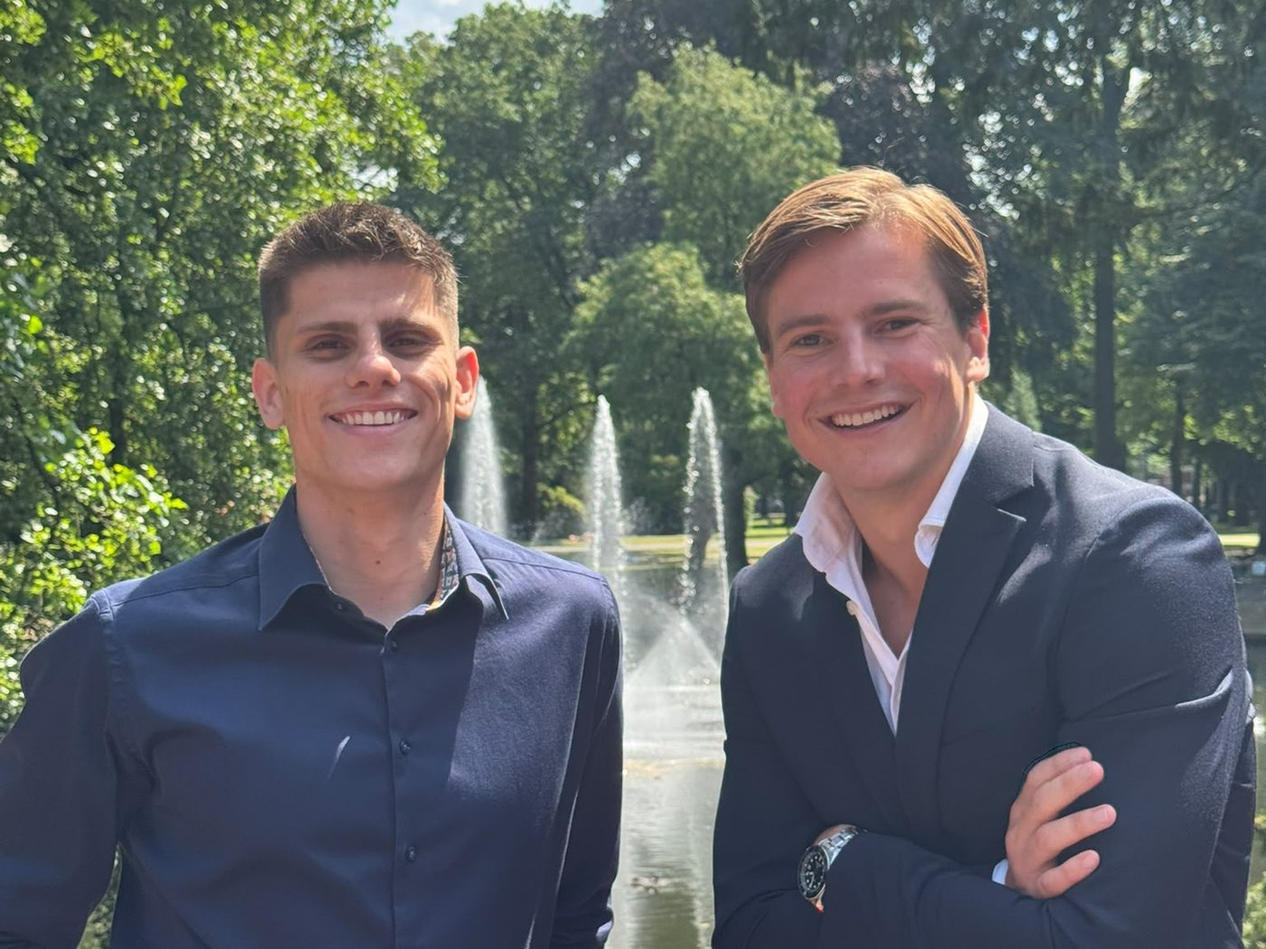
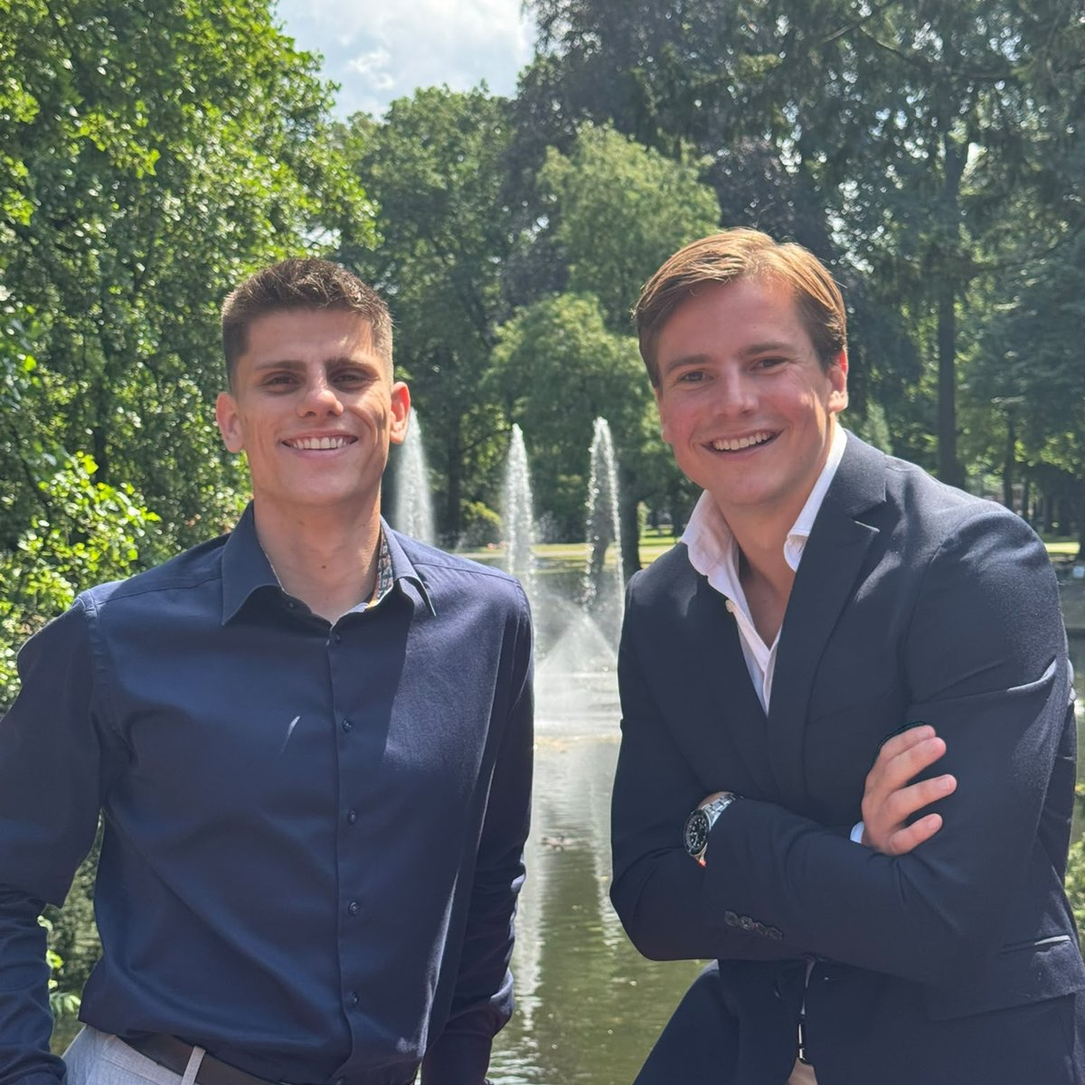
CTA zonder foto, Strategie-foto ruimer en kleiner, voorbeeldkaart met eigen achtergrond

diff --git a/styles.css b/styles.css
@@ -1,3 +1,3 @@
 @font-face{font-family:Inter;font-style:normal;font-weight:100 900;font-display:swap;src:url(fonts/inter-latin-ext-wght-normal.woff2) format("woff2-variations");unicode-range:u+0100-02ba,u+02bd-02c5,u+02c7-02cc,u+02ce-02d7,u+02dd-02ff,u+0304,u+0308,u+0329,u+1d00-1dbf,u+1e00-1e9f,u+1ef2-1eff,u+2020,u+20a0-20ab,u+20ad-20c0,u+2113,u+2c60-2c7f,u+a720-a7ff}@font-face{font-family:Inter;font-style:normal;font-weight:100 900;font-display:swap;src:url(fonts/inter-latin-wght-normal.woff2) format("woff2-variations");unicode-range:u+00??,u+0131,u+0152-0153,u+02bb-02bc,u+02c6,u+02da,u+02dc,u+0304,u+0308,u+0329,u+2000-206f,u+20ac,u+2122,u+2191,u+2193,u+2212,u+2215,u+feff,u+fffd}*,:after,:before{--tw-border-spacing-x:0;--tw-border-spacing-y:0;--tw-translate-x:0;--tw-translate-y:0;--tw-rotate:0;--tw-skew-x:0;--tw-skew-y:0;--tw-scale-x:1;--tw-scale-y:1;--tw-pan-x: ;--tw-pan-y: ;--tw-pinch-zoom: ;--tw-scroll-snap-strictness:proximity;--tw-gradient-from-position: ;--tw-gradient-via-position: ;--tw-gradient-to-position: ;--tw-ordinal: ;--tw-slashed-zero: ;--tw-numeric-figure: ;--tw-numeric-spacing: ;--tw-numeric-fraction: ;--tw-ring-inset: ;--tw-ring-offset-width:0px;--tw-ring-offset-color:#fff;--tw-ring-color:rgba(59,130,246,.5);--tw-ring-offset-shadow:0 0 #0000;--tw-ring-shadow:0 0 #0000;--tw-shadow:0 0 #0000;--tw-shadow-colored:0 0 #0000;--tw-blur: ;--tw-brightness: ;--tw-contrast: ;--tw-grayscale: ;--tw-hue-rotate: ;--tw-invert: ;--tw-saturate: ;--tw-sepia: ;--tw-drop-shadow: ;--tw-backdrop-blur: ;--tw-backdrop-brightness: ;--tw-backdrop-contrast: ;--tw-backdrop-grayscale: ;--tw-backdrop-hue-rotate: ;--tw-backdrop-invert: ;--tw-backdrop-opacity: ;--tw-backdrop-saturate: ;--tw-backdrop-sepia: ;--tw-contain-size: ;--tw-contain-layout: ;--tw-contain-paint: ;--tw-contain-style: }::backdrop{--tw-border-spacing-x:0;--tw-border-spacing-y:0;--tw-translate-x:0;--tw-translate-y:0;--tw-rotate:0;--tw-skew-x:0;--tw-skew-y:0;--tw-scale-x:1;--tw-scale-y:1;--tw-pan-x: ;--tw-pan-y: ;--tw-pinch-zoom: ;--tw-scroll-snap-strictness:proximity;--tw-gradient-from-position: ;--tw-gradient-via-position: ;--tw-gradient-to-position: ;--tw-ordinal: ;--tw-slashed-zero: ;--tw-numeric-figure: ;--tw-numeric-spacing: ;--tw-numeric-fraction: ;--tw-ring-inset: ;--tw-ring-offset-width:0px;--tw-ring-offset-color:#fff;--tw-ring-color:rgba(59,130,246,.5);--tw-ring-offset-shadow:0 0 #0000;--tw-ring-shadow:0 0 #0000;--tw-shadow:0 0 #0000;--tw-shadow-colored:0 0 #0000;--tw-blur: ;--tw-brightness: ;--tw-contrast: ;--tw-grayscale: ;--tw-hue-rotate: ;--tw-invert: ;--tw-saturate: ;--tw-sepia: ;--tw-drop-shadow: ;--tw-backdrop-blur: ;--tw-backdrop-brightness: ;--tw-backdrop-contrast: ;--tw-backdrop-grayscale: ;--tw-backdrop-hue-rotate: ;--tw-backdrop-invert: ;--tw-backdrop-opacity: ;--tw-backdrop-saturate: ;--tw-backdrop-sepia: ;--tw-contain-size: ;--tw-contain-layout: ;--tw-contain-paint: ;--tw-contain-style: }
 
-/*! tailwindcss v3.4.17 | MIT License | https://tailwindcss.com*/*,:after,:before{box-sizing:border-box;border:0 solid #e5e7eb}:after,:before{--tw-content:""}:host,html{line-height:1.5;-webkit-text-size-adjust:100%;-moz-tab-size:4;-o-tab-size:4;tab-size:4;font-family:Inter,sans-serif;font-feature-settings:normal;font-variation-settings:normal;-webkit-tap-highlight-color:transparent}body{margin:0;line-height:inherit}hr{height:0;color:inherit;border-top-width:1px}abbr:where([title]){-webkit-text-decoration:underline dotted;text-decoration:underline dotted}h1,h2,h3,h4,h5,h6{font-size:inherit;font-weight:inherit}a{color:inherit;text-decoration:inherit}b,strong{font-weight:bolder}code,kbd,pre,samp{font-family:ui-monospace,SFMono-Regular,Menlo,Monaco,Consolas,Liberation Mono,Courier New,monospace;font-feature-settings:normal;font-variation-settings:normal;font-size:1em}small{font-size:80%}sub,sup{font-size:75%;line-height:0;position:relative;vertical-align:baseline}sub{bottom:-.25em}sup{top:-.5em}table{text-indent:0;border-color:inherit;border-collapse:collapse}button,input,optgroup,select,textarea{font-family:inherit;font-feature-settings:inherit;font-variation-settings:inherit;font-size:100%;font-weight:inherit;line-height:inherit;letter-spacing:inherit;color:inherit;margin:0;padding:0}button,select{text-transform:none}button,input:where([type=button]),input:where([type=reset]),input:where([type=submit]){-webkit-appearance:button;background-color:transparent;background-image:none}:-moz-focusring{outline:auto}:-moz-ui-invalid{box-shadow:none}progress{vertical-align:baseline}::-webkit-inner-spin-button,::-webkit-outer-spin-button{height:auto}[type=search]{-webkit-appearance:textfield;outline-offset:-2px}::-webkit-search-decoration{-webkit-appearance:none}::-webkit-file-upload-button{-webkit-appearance:button;font:inherit}summary{display:list-item}blockquote,dd,dl,figure,h1,h2,h3,h4,h5,h6,hr,p,pre{margin:0}fieldset{margin:0}fieldset,legend{padding:0}menu,ol,ul{list-style:none;margin:0;padding:0}dialog{padding:0}textarea{resize:vertical}input::-moz-placeholder,textarea::-moz-placeholder{opacity:1;color:#9ca3af}input::placeholder,textarea::placeholder{opacity:1;color:#9ca3af}[role=button],button{cursor:pointer}:disabled{cursor:default}audio,canvas,embed,iframe,img,object,svg,video{display:block;vertical-align:middle}img,video{max-width:100%;height:auto}[hidden]:where(:not([hidden=until-found])){display:none}.container{width:100%}@media (min-width:640px){.container{max-width:640px}}@media (min-width:768px){.container{max-width:768px}}@media (min-width:1024px){.container{max-width:1024px}}@media (min-width:1280px){.container{max-width:1280px}}@media (min-width:1536px){.container{max-width:1536px}}.static{position:static}.fixed{position:fixed}.absolute{position:absolute}.relative{position:relative}.sticky{position:sticky}.-bottom-5{bottom:-1.25rem}.-right-24{right:-6rem}.-top-24{top:-6rem}.-top-5{top:-1.25rem}.bottom-4{bottom:1rem}.left-4{left:1rem}.left-6{left:1.5rem}.right-2{right:.5rem}.mx-auto{margin-left:auto;margin-right:auto}.\!mb-0{margin-bottom:0!important}.\!mb-5{margin-bottom:1.25rem!important}.-mr-2{margin-right:-.5rem}.mb-1{margin-bottom:.25rem}.mb-10{margin-bottom:2.5rem}.mb-14{margin-bottom:3.5rem}.mb-16{margin-bottom:4rem}.mb-3{margin-bottom:.75rem}.mb-4{margin-bottom:1rem}.mb-5{margin-bottom:1.25rem}.mb-6{margin-bottom:1.5rem}.mb-7{margin-bottom:1.75rem}.mb-8{margin-bottom:2rem}.mb-9{margin-bottom:2.25rem}.mt-1{margin-top:.25rem}.mt-1\.5{margin-top:.375rem}.mt-10{margin-top:2.5rem}.mt-16{margin-top:4rem}.mt-8{margin-top:2rem}.block{display:block}.flex{display:flex}.inline-flex{display:inline-flex}.grid{display:grid}.hidden{display:none}.aspect-\[16\/9\]{aspect-ratio:16/9}.aspect-\[4\/3\]{aspect-ratio:4/3}.aspect-\[4\/5\]{aspect-ratio:4/5}.\!h-7{height:1.75rem!important}.h-12{height:3rem}.h-16{height:4rem}.h-5{height:1.25rem}.h-6{height:1.5rem}.h-72{height:18rem}.h-8{height:2rem}.h-9{height:2.25rem}.h-\[72px\]{height:72px}.\!w-7{width:1.75rem!important}.w-12{width:3rem}.w-5{width:1.25rem}.w-6{width:1.5rem}.w-72{width:18rem}.w-8{width:2rem}.w-9{width:2.25rem}.w-fit{width:-moz-fit-content;width:fit-content}.w-full{width:100%}.max-w-2xl{max-width:42rem}.max-w-3xl{max-width:48rem}.max-w-6xl{max-width:72rem}.max-w-lg{max-width:32rem}.max-w-xl{max-width:36rem}.flex-shrink{flex-shrink:1}.flex-shrink-0{flex-shrink:0}.transform{transform:translate(var(--tw-translate-x),var(--tw-translate-y)) rotate(var(--tw-rotate)) skewX(var(--tw-skew-x)) skewY(var(--tw-skew-y)) scaleX(var(--tw-scale-x)) scaleY(var(--tw-scale-y))}.resize{resize:both}.grid-cols-1{grid-template-columns:repeat(1,minmax(0,1fr))}.flex-col{flex-direction:column}.flex-wrap{flex-wrap:wrap}.items-start{align-items:flex-start}.items-center{align-items:center}.justify-center{justify-content:center}.justify-between{justify-content:space-between}.\!gap-3{gap:.75rem!important}.gap-1{gap:.25rem}.gap-10{gap:2.5rem}.gap-12{gap:3rem}.gap-14{gap:3.5rem}.gap-3{gap:.75rem}.gap-4{gap:1rem}.gap-5{gap:1.25rem}.gap-6{gap:1.5rem}.gap-7{gap:1.75rem}.gap-8{gap:2rem}.gap-x-5{-moz-column-gap:1.25rem;column-gap:1.25rem}.gap-x-6{-moz-column-gap:1.5rem;column-gap:1.5rem}.gap-y-0{row-gap:0}.gap-y-2{row-gap:.5rem}.space-y-4>:not([hidden])~:not([hidden]){--tw-space-y-reverse:0;margin-top:calc(1rem*(1 - var(--tw-space-y-reverse)));margin-bottom:calc(1rem*var(--tw-space-y-reverse))}.justify-self-start{justify-self:start}.overflow-hidden{overflow:hidden}.text-wrap{text-wrap:wrap}.rounded{border-radius:.25rem}.rounded-2xl{border-radius:1rem}.rounded-3xl{border-radius:1.5rem}.rounded-\[24px\]{border-radius:24px}.rounded-\[28px\]{border-radius:28px}.rounded-\[32px\]{border-radius:32px}.rounded-full{border-radius:9999px}.rounded-xl{border-radius:.75rem}.border{border-width:1px}.border-\[28px\]{border-width:28px}.border-y{border-top-width:1px}.border-b,.border-y{border-bottom-width:1px}.border-t{border-top-width:1px}.border-black\/\[0\.06\]{border-color:rgba(0,0,0,.06)}.border-white\/10{border-color:hsla(0,0%,100%,.1)}.border-white\/20{border-color:hsla(0,0%,100%,.2)}.border-white\/\[0\.04\]{border-color:hsla(0,0%,100%,.04)}.border-white\/\[0\.08\]{border-color:hsla(0,0%,100%,.08)}.bg-\[\#0f2a4a\]{--tw-bg-opacity:1;background-color:rgb(15 42 74/var(--tw-bg-opacity,1))}.bg-\[\#1e5bff\]{--tw-bg-opacity:1;background-color:rgb(30 91 255/var(--tw-bg-opacity,1))}.bg-\[\#EBF3FF\]{--tw-bg-opacity:1;background-color:rgb(235 243 255/var(--tw-bg-opacity,1))}.bg-\[\#F1F3F7\]{--tw-bg-opacity:1;background-color:rgb(241 243 247/var(--tw-bg-opacity,1))}.bg-white{--tw-bg-opacity:1;background-color:rgb(255 255 255/var(--tw-bg-opacity,1))}.bg-white\/\[0\.05\]{background-color:hsla(0,0%,100%,.05)}.object-contain{-o-object-fit:contain;object-fit:contain}.object-cover{-o-object-fit:cover;object-fit:cover}.p-2{padding:.5rem}.p-4{padding:1rem}.p-6{padding:1.5rem}.p-7{padding:1.75rem}.\!py-1\.5{padding-top:.375rem!important;padding-bottom:.375rem!important}.px-3{padding-left:.75rem;padding-right:.75rem}.px-4{padding-left:1rem;padding-right:1rem}.px-6{padding-left:1.5rem;padding-right:1.5rem}.px-7{padding-left:1.75rem;padding-right:1.75rem}.py-1\.5{padding-top:.375rem;padding-bottom:.375rem}.py-12{padding-top:3rem;padding-bottom:3rem}.py-16{padding-top:4rem;padding-bottom:4rem}.py-2{padding-top:.5rem;padding-bottom:.5rem}.py-24{padding-top:6rem;padding-bottom:6rem}.py-3{padding-top:.75rem;padding-bottom:.75rem}.py-5{padding-top:1.25rem;padding-bottom:1.25rem}.py-8{padding-top:2rem;padding-bottom:2rem}.py-9{padding-top:2.25rem;padding-bottom:2.25rem}.\!pl-5{padding-left:1.25rem!important}.\!pr-1\.5{padding-right:.375rem!important}.pb-10{padding-bottom:2.5rem}.pb-16{padding-bottom:4rem}.pl-6{padding-left:1.5rem}.pr-2{padding-right:.5rem}.pt-12{padding-top:3rem}.pt-20{padding-top:5rem}.pt-4{padding-top:1rem}.pt-8{padding-top:2rem}.text-center{text-align:center}.\!text-\[15px\]{font-size:15px!important}.\!text-\[18px\]{font-size:18px!important}.\!text-sm{font-size:.875rem!important;line-height:1.25rem!important}.text-2xl{font-size:1.5rem;line-height:2rem}.text-3xl{font-size:1.875rem;line-height:2.25rem}.text-\[11px\]{font-size:11px}.text-\[12px\]{font-size:12px}.text-\[13\.5px\]{font-size:13.5px}.text-\[13px\]{font-size:13px}.text-\[14\.5px\]{font-size:14.5px}.text-\[14px\]{font-size:14px}.text-\[15\.5px\]{font-size:15.5px}.text-\[15px\]{font-size:15px}.text-\[16px\]{font-size:16px}.text-\[17px\]{font-size:17px}.text-\[20px\]{font-size:20px}.text-\[23px\]{font-size:23px}.text-\[24px\]{font-size:24px}.text-base{font-size:1rem;line-height:1.5rem}.text-lg{font-size:1.125rem;line-height:1.75rem}.text-sm{font-size:.875rem;line-height:1.25rem}.text-xl{font-size:1.25rem;line-height:1.75rem}.text-xs{font-size:.75rem;line-height:1rem}.font-bold{font-weight:700}.font-medium{font-weight:500}.font-semibold{font-weight:600}.uppercase{text-transform:uppercase}.leading-\[1\.7\]{line-height:1.7}.leading-relaxed{line-height:1.625}.leading-snug{line-height:1.375}.leading-tight{line-height:1.25}.tracking-\[0\.14em\]{letter-spacing:.14em}.tracking-\[0\.18em\]{letter-spacing:.18em}.tracking-tight{letter-spacing:-.025em}.text-\[\#0f2a4a\]{--tw-text-opacity:1;color:rgb(15 42 74/var(--tw-text-opacity,1))}.text-\[\#0f2a4a\]\/70{color:rgba(15,42,74,.7)}.text-\[\#1e5bff\]{--tw-text-opacity:1;color:rgb(30 91 255/var(--tw-text-opacity,1))}.text-\[\#4c5b84\]{--tw-text-opacity:1;color:rgb(76 91 132/var(--tw-text-opacity,1))}.text-\[\#5d6c9c\]{--tw-text-opacity:1;color:rgb(93 108 156/var(--tw-text-opacity,1))}.text-\[\#6b7aad\]{--tw-text-opacity:1;color:rgb(107 122 173/var(--tw-text-opacity,1))}.text-white{--tw-text-opacity:1;color:rgb(255 255 255/var(--tw-text-opacity,1))}.text-white\/50{color:hsla(0,0%,100%,.5)}.text-white\/55{color:hsla(0,0%,100%,.55)}.text-white\/60{color:hsla(0,0%,100%,.6)}.text-white\/70{color:hsla(0,0%,100%,.7)}.underline{text-decoration-line:underline}.antialiased{-webkit-font-smoothing:antialiased;-moz-osx-font-smoothing:grayscale}.shadow-\[0_18px_36px_-18px_rgba\(15\2c 42\2c 74\2c \.5\)\]{--tw-shadow:0 18px 36px -18px rgba(15,42,74,.5);--tw-shadow-colored:0 18px 36px -18px var(--tw-shadow-color);box-shadow:var(--tw-ring-offset-shadow,0 0 #0000),var(--tw-ring-shadow,0 0 #0000),var(--tw-shadow)}.shadow-\[0_30px_60px_-30px_rgba\(0\2c 0\2c 0\2c \.6\)\]{--tw-shadow:0 30px 60px -30px rgba(0,0,0,.6);--tw-shadow-colored:0 30px 60px -30px var(--tw-shadow-color);box-shadow:var(--tw-ring-offset-shadow,0 0 #0000),var(--tw-ring-shadow,0 0 #0000),var(--tw-shadow)}.outline{outline-style:solid}.blur{--tw-blur:blur(8px)}.blur,.drop-shadow{filter:var(--tw-blur) var(--tw-brightness) var(--tw-contrast) var(--tw-grayscale) var(--tw-hue-rotate) var(--tw-invert) var(--tw-saturate) var(--tw-sepia) var(--tw-drop-shadow)}.drop-shadow{--tw-drop-shadow:drop-shadow(0 1px 2px rgba(0,0,0,.1)) drop-shadow(0 1px 1px rgba(0,0,0,.06))}.filter{filter:var(--tw-blur) var(--tw-brightness) var(--tw-contrast) var(--tw-grayscale) var(--tw-hue-rotate) var(--tw-invert) var(--tw-saturate) var(--tw-sepia) var(--tw-drop-shadow)}.backdrop-filter{-webkit-backdrop-filter:var(--tw-backdrop-blur) var(--tw-backdrop-brightness) var(--tw-backdrop-contrast) var(--tw-backdrop-grayscale) var(--tw-backdrop-hue-rotate) var(--tw-backdrop-invert) var(--tw-backdrop-opacity) var(--tw-backdrop-saturate) var(--tw-backdrop-sepia);backdrop-filter:var(--tw-backdrop-blur) var(--tw-backdrop-brightness) var(--tw-backdrop-contrast) var(--tw-backdrop-grayscale) var(--tw-backdrop-hue-rotate) var(--tw-backdrop-invert) var(--tw-backdrop-opacity) var(--tw-backdrop-saturate) var(--tw-backdrop-sepia)}.transition{transition-property:color,background-color,border-color,text-decoration-color,fill,stroke,opacity,box-shadow,transform,filter,-webkit-backdrop-filter;transition-property:color,background-color,border-color,text-decoration-color,fill,stroke,opacity,box-shadow,transform,filter,backdrop-filter;transition-property:color,background-color,border-color,text-decoration-color,fill,stroke,opacity,box-shadow,transform,filter,backdrop-filter,-webkit-backdrop-filter;transition-timing-function:cubic-bezier(.4,0,.2,1);transition-duration:.15s}.transition-all{transition-property:all;transition-timing-function:cubic-bezier(.4,0,.2,1);transition-duration:.15s}.transition-colors{transition-property:color,background-color,border-color,text-decoration-color,fill,stroke;transition-timing-function:cubic-bezier(.4,0,.2,1);transition-duration:.15s}.duration-200{transition-duration:.2s}.ease-in-out{transition-timing-function:cubic-bezier(.4,0,.2,1)}.ease-out{transition-timing-function:cubic-bezier(0,0,.2,1)}.\[text-wrap\:balance\]{text-wrap:balance}.hover\:bg-\[\#1a4ee0\]:hover{--tw-bg-opacity:1;background-color:rgb(26 78 224/var(--tw-bg-opacity,1))}.hover\:bg-white:hover{--tw-bg-opacity:1;background-color:rgb(255 255 255/var(--tw-bg-opacity,1))}.hover\:bg-white\/90:hover{background-color:hsla(0,0%,100%,.9)}.hover\:text-\[\#0f2a4a\]:hover{--tw-text-opacity:1;color:rgb(15 42 74/var(--tw-text-opacity,1))}.hover\:text-white:hover{--tw-text-opacity:1;color:rgb(255 255 255/var(--tw-text-opacity,1))}.hover\:text-white\/55:hover{color:hsla(0,0%,100%,.55)}.hover\:underline:hover{text-decoration-line:underline}@media (min-width:640px){.sm\:bottom-6{bottom:1.5rem}.sm\:left-6{left:1.5rem}.sm\:inline-flex{display:inline-flex}.sm\:aspect-\[5\/4\]{aspect-ratio:5/4}.sm\:grid-cols-2{grid-template-columns:repeat(2,minmax(0,1fr))}.sm\:grid-cols-3{grid-template-columns:repeat(3,minmax(0,1fr))}.sm\:flex-row{flex-direction:row}.sm\:items-center{align-items:center}.sm\:justify-between{justify-content:space-between}.sm\:gap-10{gap:2.5rem}.sm\:gap-6{gap:1.5rem}.sm\:justify-self-end{justify-self:end}.sm\:justify-self-center{justify-self:center}.sm\:p-10{padding:2.5rem}.sm\:p-7{padding:1.75rem}.sm\:p-8{padding:2rem}.sm\:p-9{padding:2.25rem}.sm\:px-12{padding-left:3rem;padding-right:3rem}.sm\:px-6{padding-left:1.5rem;padding-right:1.5rem}.sm\:py-14{padding-top:3.5rem;padding-bottom:3.5rem}.sm\:text-4xl{font-size:2.25rem;line-height:2.5rem}.sm\:text-\[28px\]{font-size:28px}}@media (min-width:768px){.md\:grid-cols-2{grid-template-columns:repeat(2,minmax(0,1fr))}.md\:flex-row{flex-direction:row}.md\:items-end{align-items:flex-end}.md\:justify-between{justify-content:space-between}}@media (min-width:1024px){.lg\:-right-4{right:-1rem}.lg\:left-2{left:.5rem}.lg\:flex{display:flex}.lg\:inline-flex{display:inline-flex}.lg\:hidden{display:none}.lg\:aspect-\[4\/5\]{aspect-ratio:4/5}.lg\:grid-cols-3{grid-template-columns:repeat(3,minmax(0,1fr))}.lg\:grid-cols-4{grid-template-columns:repeat(4,minmax(0,1fr))}.lg\:grid-cols-\[1\.05fr_1fr\]{grid-template-columns:1.05fr 1fr}.lg\:grid-cols-\[1\.15fr_1fr\]{grid-template-columns:1.15fr 1fr}.lg\:grid-cols-\[1\.1fr_1fr\]{grid-template-columns:1.1fr 1fr}.lg\:grid-cols-\[1fr_1\.05fr\]{grid-template-columns:1fr 1.05fr}.lg\:grid-cols-\[1fr_1\.1fr\]{grid-template-columns:1fr 1.1fr}.lg\:grid-cols-\[330px_1fr\]{grid-template-columns:330px 1fr}.lg\:flex-row{flex-direction:row}.lg\:items-start{align-items:flex-start}.lg\:justify-between{justify-content:space-between}.lg\:gap-12{gap:3rem}.lg\:gap-14{gap:3.5rem}.lg\:gap-16{gap:4rem}.lg\:gap-8{gap:2rem}.lg\:py-20{padding-top:5rem;padding-bottom:5rem}.lg\:py-28{padding-top:7rem;padding-bottom:7rem}.lg\:pb-24{padding-bottom:6rem}.lg\:pl-6{padding-left:1.5rem}.lg\:pt-20{padding-top:5rem}}
+/*! tailwindcss v3.4.17 | MIT License | https://tailwindcss.com*/*,:after,:before{box-sizing:border-box;border:0 solid #e5e7eb}:after,:before{--tw-content:""}:host,html{line-height:1.5;-webkit-text-size-adjust:100%;-moz-tab-size:4;-o-tab-size:4;tab-size:4;font-family:Inter,sans-serif;font-feature-settings:normal;font-variation-settings:normal;-webkit-tap-highlight-color:transparent}body{margin:0;line-height:inherit}hr{height:0;color:inherit;border-top-width:1px}abbr:where([title]){-webkit-text-decoration:underline dotted;text-decoration:underline dotted}h1,h2,h3,h4,h5,h6{font-size:inherit;font-weight:inherit}a{color:inherit;text-decoration:inherit}b,strong{font-weight:bolder}code,kbd,pre,samp{font-family:ui-monospace,SFMono-Regular,Menlo,Monaco,Consolas,Liberation Mono,Courier New,monospace;font-feature-settings:normal;font-variation-settings:normal;font-size:1em}small{font-size:80%}sub,sup{font-size:75%;line-height:0;position:relative;vertical-align:baseline}sub{bottom:-.25em}sup{top:-.5em}table{text-indent:0;border-color:inherit;border-collapse:collapse}button,input,optgroup,select,textarea{font-family:inherit;font-feature-settings:inherit;font-variation-settings:inherit;font-size:100%;font-weight:inherit;line-height:inherit;letter-spacing:inherit;color:inherit;margin:0;padding:0}button,select{text-transform:none}button,input:where([type=button]),input:where([type=reset]),input:where([type=submit]){-webkit-appearance:button;background-color:transparent;background-image:none}:-moz-focusring{outline:auto}:-moz-ui-invalid{box-shadow:none}progress{vertical-align:baseline}::-webkit-inner-spin-button,::-webkit-outer-spin-button{height:auto}[type=search]{-webkit-appearance:textfield;outline-offset:-2px}::-webkit-search-decoration{-webkit-appearance:none}::-webkit-file-upload-button{-webkit-appearance:button;font:inherit}summary{display:list-item}blockquote,dd,dl,figure,h1,h2,h3,h4,h5,h6,hr,p,pre{margin:0}fieldset{margin:0}fieldset,legend{padding:0}menu,ol,ul{list-style:none;margin:0;padding:0}dialog{padding:0}textarea{resize:vertical}input::-moz-placeholder,textarea::-moz-placeholder{opacity:1;color:#9ca3af}input::placeholder,textarea::placeholder{opacity:1;color:#9ca3af}[role=button],button{cursor:pointer}:disabled{cursor:default}audio,canvas,embed,iframe,img,object,svg,video{display:block;vertical-align:middle}img,video{max-width:100%;height:auto}[hidden]:where(:not([hidden=until-found])){display:none}.container{width:100%}@media (min-width:640px){.container{max-width:640px}}@media (min-width:768px){.container{max-width:768px}}@media (min-width:1024px){.container{max-width:1024px}}@media (min-width:1280px){.container{max-width:1280px}}@media (min-width:1536px){.container{max-width:1536px}}.static{position:static}.fixed{position:fixed}.absolute{position:absolute}.relative{position:relative}.sticky{position:sticky}.-bottom-5{bottom:-1.25rem}.-right-24{right:-6rem}.-top-24{top:-6rem}.-top-5{top:-1.25rem}.bottom-4{bottom:1rem}.left-4{left:1rem}.left-6{left:1.5rem}.right-2{right:.5rem}.mx-auto{margin-left:auto;margin-right:auto}.\!mb-0{margin-bottom:0!important}.\!mb-5{margin-bottom:1.25rem!important}.-mr-2{margin-right:-.5rem}.mb-1{margin-bottom:.25rem}.mb-10{margin-bottom:2.5rem}.mb-14{margin-bottom:3.5rem}.mb-16{margin-bottom:4rem}.mb-3{margin-bottom:.75rem}.mb-4{margin-bottom:1rem}.mb-5{margin-bottom:1.25rem}.mb-6{margin-bottom:1.5rem}.mb-7{margin-bottom:1.75rem}.mb-8{margin-bottom:2rem}.mb-9{margin-bottom:2.25rem}.mt-1{margin-top:.25rem}.mt-1\.5{margin-top:.375rem}.mt-10{margin-top:2.5rem}.mt-16{margin-top:4rem}.mt-8{margin-top:2rem}.block{display:block}.flex{display:flex}.inline-flex{display:inline-flex}.grid{display:grid}.hidden{display:none}.aspect-\[4\/3\]{aspect-ratio:4/3}.aspect-\[4\/5\]{aspect-ratio:4/5}.\!h-7{height:1.75rem!important}.h-12{height:3rem}.h-16{height:4rem}.h-5{height:1.25rem}.h-6{height:1.5rem}.h-72{height:18rem}.h-8{height:2rem}.h-9{height:2.25rem}.h-\[72px\]{height:72px}.\!w-7{width:1.75rem!important}.w-12{width:3rem}.w-5{width:1.25rem}.w-6{width:1.5rem}.w-72{width:18rem}.w-8{width:2rem}.w-9{width:2.25rem}.w-fit{width:-moz-fit-content;width:fit-content}.w-full{width:100%}.max-w-2xl{max-width:42rem}.max-w-3xl{max-width:48rem}.max-w-6xl{max-width:72rem}.max-w-\[420px\]{max-width:420px}.max-w-lg{max-width:32rem}.max-w-xl{max-width:36rem}.flex-shrink{flex-shrink:1}.flex-shrink-0{flex-shrink:0}.transform{transform:translate(var(--tw-translate-x),var(--tw-translate-y)) rotate(var(--tw-rotate)) skewX(var(--tw-skew-x)) skewY(var(--tw-skew-y)) scaleX(var(--tw-scale-x)) scaleY(var(--tw-scale-y))}.resize{resize:both}.grid-cols-1{grid-template-columns:repeat(1,minmax(0,1fr))}.flex-col{flex-direction:column}.flex-wrap{flex-wrap:wrap}.items-start{align-items:flex-start}.items-center{align-items:center}.justify-center{justify-content:center}.justify-between{justify-content:space-between}.\!gap-3{gap:.75rem!important}.gap-1{gap:.25rem}.gap-10{gap:2.5rem}.gap-12{gap:3rem}.gap-14{gap:3.5rem}.gap-3{gap:.75rem}.gap-4{gap:1rem}.gap-5{gap:1.25rem}.gap-6{gap:1.5rem}.gap-7{gap:1.75rem}.gap-8{gap:2rem}.gap-x-5{-moz-column-gap:1.25rem;column-gap:1.25rem}.gap-x-6{-moz-column-gap:1.5rem;column-gap:1.5rem}.gap-y-0{row-gap:0}.gap-y-2{row-gap:.5rem}.space-y-4>:not([hidden])~:not([hidden]){--tw-space-y-reverse:0;margin-top:calc(1rem*(1 - var(--tw-space-y-reverse)));margin-bottom:calc(1rem*var(--tw-space-y-reverse))}.justify-self-start{justify-self:start}.overflow-hidden{overflow:hidden}.text-wrap{text-wrap:wrap}.rounded{border-radius:.25rem}.rounded-2xl{border-radius:1rem}.rounded-3xl{border-radius:1.5rem}.rounded-\[24px\]{border-radius:24px}.rounded-\[28px\]{border-radius:28px}.rounded-\[32px\]{border-radius:32px}.rounded-full{border-radius:9999px}.rounded-xl{border-radius:.75rem}.border{border-width:1px}.border-\[28px\]{border-width:28px}.border-y{border-top-width:1px}.border-b,.border-y{border-bottom-width:1px}.border-t{border-top-width:1px}.border-black\/\[0\.06\]{border-color:rgba(0,0,0,.06)}.border-white\/10{border-color:hsla(0,0%,100%,.1)}.border-white\/20{border-color:hsla(0,0%,100%,.2)}.border-white\/\[0\.04\]{border-color:hsla(0,0%,100%,.04)}.border-white\/\[0\.08\]{border-color:hsla(0,0%,100%,.08)}.bg-\[\#0f2a4a\]{--tw-bg-opacity:1;background-color:rgb(15 42 74/var(--tw-bg-opacity,1))}.bg-\[\#1e5bff\]{--tw-bg-opacity:1;background-color:rgb(30 91 255/var(--tw-bg-opacity,1))}.bg-\[\#EBF3FF\]{--tw-bg-opacity:1;background-color:rgb(235 243 255/var(--tw-bg-opacity,1))}.bg-\[\#F1F3F7\]{--tw-bg-opacity:1;background-color:rgb(241 243 247/var(--tw-bg-opacity,1))}.bg-white{--tw-bg-opacity:1;background-color:rgb(255 255 255/var(--tw-bg-opacity,1))}.bg-white\/\[0\.05\]{background-color:hsla(0,0%,100%,.05)}.object-contain{-o-object-fit:contain;object-fit:contain}.object-cover{-o-object-fit:cover;object-fit:cover}.p-2{padding:.5rem}.p-4{padding:1rem}.p-6{padding:1.5rem}.p-7{padding:1.75rem}.\!py-1\.5{padding-top:.375rem!important;padding-bottom:.375rem!important}.px-3{padding-left:.75rem;padding-right:.75rem}.px-4{padding-left:1rem;padding-right:1rem}.px-6{padding-left:1.5rem;padding-right:1.5rem}.px-7{padding-left:1.75rem;padding-right:1.75rem}.py-1\.5{padding-top:.375rem;padding-bottom:.375rem}.py-12{padding-top:3rem;padding-bottom:3rem}.py-16{padding-top:4rem;padding-bottom:4rem}.py-2{padding-top:.5rem;padding-bottom:.5rem}.py-24{padding-top:6rem;padding-bottom:6rem}.py-3{padding-top:.75rem;padding-bottom:.75rem}.py-5{padding-top:1.25rem;padding-bottom:1.25rem}.py-8{padding-top:2rem;padding-bottom:2rem}.py-9{padding-top:2.25rem;padding-bottom:2.25rem}.\!pl-5{padding-left:1.25rem!important}.\!pr-1\.5{padding-right:.375rem!important}.pb-10{padding-bottom:2.5rem}.pb-16{padding-bottom:4rem}.pl-6{padding-left:1.5rem}.pr-2{padding-right:.5rem}.pt-12{padding-top:3rem}.pt-20{padding-top:5rem}.pt-4{padding-top:1rem}.pt-8{padding-top:2rem}.text-center{text-align:center}.\!text-\[15px\]{font-size:15px!important}.\!text-\[18px\]{font-size:18px!important}.\!text-sm{font-size:.875rem!important;line-height:1.25rem!important}.text-2xl{font-size:1.5rem;line-height:2rem}.text-3xl{font-size:1.875rem;line-height:2.25rem}.text-\[11px\]{font-size:11px}.text-\[12px\]{font-size:12px}.text-\[13\.5px\]{font-size:13.5px}.text-\[13px\]{font-size:13px}.text-\[14\.5px\]{font-size:14.5px}.text-\[14px\]{font-size:14px}.text-\[15\.5px\]{font-size:15.5px}.text-\[15px\]{font-size:15px}.text-\[16px\]{font-size:16px}.text-\[17px\]{font-size:17px}.text-\[20px\]{font-size:20px}.text-\[23px\]{font-size:23px}.text-\[24px\]{font-size:24px}.text-base{font-size:1rem;line-height:1.5rem}.text-lg{font-size:1.125rem;line-height:1.75rem}.text-sm{font-size:.875rem;line-height:1.25rem}.text-xl{font-size:1.25rem;line-height:1.75rem}.text-xs{font-size:.75rem;line-height:1rem}.font-bold{font-weight:700}.font-medium{font-weight:500}.font-semibold{font-weight:600}.uppercase{text-transform:uppercase}.leading-\[1\.7\]{line-height:1.7}.leading-relaxed{line-height:1.625}.leading-snug{line-height:1.375}.leading-tight{line-height:1.25}.tracking-\[0\.14em\]{letter-spacing:.14em}.tracking-\[0\.18em\]{letter-spacing:.18em}.tracking-tight{letter-spacing:-.025em}.text-\[\#0f2a4a\]{--tw-text-opacity:1;color:rgb(15 42 74/var(--tw-text-opacity,1))}.text-\[\#0f2a4a\]\/70{color:rgba(15,42,74,.7)}.text-\[\#1e5bff\]{--tw-text-opacity:1;color:rgb(30 91 255/var(--tw-text-opacity,1))}.text-\[\#4c5b84\]{--tw-text-opacity:1;color:rgb(76 91 132/var(--tw-text-opacity,1))}.text-\[\#5d6c9c\]{--tw-text-opacity:1;color:rgb(93 108 156/var(--tw-text-opacity,1))}.text-\[\#6b7aad\]{--tw-text-opacity:1;color:rgb(107 122 173/var(--tw-text-opacity,1))}.text-white{--tw-text-opacity:1;color:rgb(255 255 255/var(--tw-text-opacity,1))}.text-white\/50{color:hsla(0,0%,100%,.5)}.text-white\/55{color:hsla(0,0%,100%,.55)}.text-white\/60{color:hsla(0,0%,100%,.6)}.text-white\/70{color:hsla(0,0%,100%,.7)}.underline{text-decoration-line:underline}.antialiased{-webkit-font-smoothing:antialiased;-moz-osx-font-smoothing:grayscale}.shadow-\[0_18px_36px_-18px_rgba\(15\2c 42\2c 74\2c \.5\)\]{--tw-shadow:0 18px 36px -18px rgba(15,42,74,.5);--tw-shadow-colored:0 18px 36px -18px var(--tw-shadow-color);box-shadow:var(--tw-ring-offset-shadow,0 0 #0000),var(--tw-ring-shadow,0 0 #0000),var(--tw-shadow)}.shadow-\[0_30px_60px_-30px_rgba\(0\2c 0\2c 0\2c \.6\)\]{--tw-shadow:0 30px 60px -30px rgba(0,0,0,.6);--tw-shadow-colored:0 30px 60px -30px var(--tw-shadow-color);box-shadow:var(--tw-ring-offset-shadow,0 0 #0000),var(--tw-ring-shadow,0 0 #0000),var(--tw-shadow)}.outline{outline-style:solid}.blur{--tw-blur:blur(8px)}.blur,.drop-shadow{filter:var(--tw-blur) var(--tw-brightness) var(--tw-contrast) var(--tw-grayscale) var(--tw-hue-rotate) var(--tw-invert) var(--tw-saturate) var(--tw-sepia) var(--tw-drop-shadow)}.drop-shadow{--tw-drop-shadow:drop-shadow(0 1px 2px rgba(0,0,0,.1)) drop-shadow(0 1px 1px rgba(0,0,0,.06))}.filter{filter:var(--tw-blur) var(--tw-brightness) var(--tw-contrast) var(--tw-grayscale) var(--tw-hue-rotate) var(--tw-invert) var(--tw-saturate) var(--tw-sepia) var(--tw-drop-shadow)}.backdrop-filter{-webkit-backdrop-filter:var(--tw-backdrop-blur) var(--tw-backdrop-brightness) var(--tw-backdrop-contrast) var(--tw-backdrop-grayscale) var(--tw-backdrop-hue-rotate) var(--tw-backdrop-invert) var(--tw-backdrop-opacity) var(--tw-backdrop-saturate) var(--tw-backdrop-sepia);backdrop-filter:var(--tw-backdrop-blur) var(--tw-backdrop-brightness) var(--tw-backdrop-contrast) var(--tw-backdrop-grayscale) var(--tw-backdrop-hue-rotate) var(--tw-backdrop-invert) var(--tw-backdrop-opacity) var(--tw-backdrop-saturate) var(--tw-backdrop-sepia)}.transition{transition-property:color,background-color,border-color,text-decoration-color,fill,stroke,opacity,box-shadow,transform,filter,-webkit-backdrop-filter;transition-property:color,background-color,border-color,text-decoration-color,fill,stroke,opacity,box-shadow,transform,filter,backdrop-filter;transition-property:color,background-color,border-color,text-decoration-color,fill,stroke,opacity,box-shadow,transform,filter,backdrop-filter,-webkit-backdrop-filter;transition-timing-function:cubic-bezier(.4,0,.2,1);transition-duration:.15s}.transition-all{transition-property:all;transition-timing-function:cubic-bezier(.4,0,.2,1);transition-duration:.15s}.transition-colors{transition-property:color,background-color,border-color,text-decoration-color,fill,stroke;transition-timing-function:cubic-bezier(.4,0,.2,1);transition-duration:.15s}.duration-200{transition-duration:.2s}.ease-in-out{transition-timing-function:cubic-bezier(.4,0,.2,1)}.ease-out{transition-timing-function:cubic-bezier(0,0,.2,1)}.\[text-wrap\:balance\]{text-wrap:balance}.hover\:bg-\[\#1a4ee0\]:hover{--tw-bg-opacity:1;background-color:rgb(26 78 224/var(--tw-bg-opacity,1))}.hover\:bg-white:hover{--tw-bg-opacity:1;background-color:rgb(255 255 255/var(--tw-bg-opacity,1))}.hover\:bg-white\/90:hover{background-color:hsla(0,0%,100%,.9)}.hover\:text-\[\#0f2a4a\]:hover{--tw-text-opacity:1;color:rgb(15 42 74/var(--tw-text-opacity,1))}.hover\:text-white:hover{--tw-text-opacity:1;color:rgb(255 255 255/var(--tw-text-opacity,1))}.hover\:text-white\/55:hover{color:hsla(0,0%,100%,.55)}.hover\:underline:hover{text-decoration-line:underline}@media (min-width:640px){.sm\:bottom-6{bottom:1.5rem}.sm\:left-6{left:1.5rem}.sm\:inline-flex{display:inline-flex}.sm\:aspect-\[5\/4\]{aspect-ratio:5/4}.sm\:grid-cols-2{grid-template-columns:repeat(2,minmax(0,1fr))}.sm\:grid-cols-3{grid-template-columns:repeat(3,minmax(0,1fr))}.sm\:flex-row{flex-direction:row}.sm\:items-center{align-items:center}.sm\:justify-between{justify-content:space-between}.sm\:gap-10{gap:2.5rem}.sm\:gap-6{gap:1.5rem}.sm\:justify-self-end{justify-self:end}.sm\:justify-self-center{justify-self:center}.sm\:p-10{padding:2.5rem}.sm\:p-7{padding:1.75rem}.sm\:p-8{padding:2rem}.sm\:p-9{padding:2.25rem}.sm\:px-12{padding-left:3rem;padding-right:3rem}.sm\:px-6{padding-left:1.5rem;padding-right:1.5rem}.sm\:py-14{padding-top:3.5rem;padding-bottom:3.5rem}.sm\:text-4xl{font-size:2.25rem;line-height:2.5rem}.sm\:text-\[28px\]{font-size:28px}}@media (min-width:768px){.md\:grid-cols-2{grid-template-columns:repeat(2,minmax(0,1fr))}.md\:flex-row{flex-direction:row}.md\:items-end{align-items:flex-end}.md\:justify-between{justify-content:space-between}}@media (min-width:1024px){.lg\:-right-4{right:-1rem}.lg\:left-2{left:.5rem}.lg\:flex{display:flex}.lg\:inline-flex{display:inline-flex}.lg\:hidden{display:none}.lg\:aspect-\[4\/5\]{aspect-ratio:4/5}.lg\:aspect-square{aspect-ratio:1/1}.lg\:grid-cols-3{grid-template-columns:repeat(3,minmax(0,1fr))}.lg\:grid-cols-4{grid-template-columns:repeat(4,minmax(0,1fr))}.lg\:grid-cols-\[1\.05fr_1fr\]{grid-template-columns:1.05fr 1fr}.lg\:grid-cols-\[1\.15fr_1fr\]{grid-template-columns:1.15fr 1fr}.lg\:grid-cols-\[1\.1fr_1fr\]{grid-template-columns:1.1fr 1fr}.lg\:grid-cols-\[1fr_1\.05fr\]{grid-template-columns:1fr 1.05fr}.lg\:grid-cols-\[1fr_1\.1fr\]{grid-template-columns:1fr 1.1fr}.lg\:grid-cols-\[330px_1fr\]{grid-template-columns:330px 1fr}.lg\:flex-row{flex-direction:row}.lg\:items-start{align-items:flex-start}.lg\:justify-between{justify-content:space-between}.lg\:gap-12{gap:3rem}.lg\:gap-14{gap:3.5rem}.lg\:gap-16{gap:4rem}.lg\:gap-8{gap:2rem}.lg\:justify-self-end{justify-self:end}.lg\:py-20{padding-top:5rem;padding-bottom:5rem}.lg\:py-28{padding-top:7rem;padding-bottom:7rem}.lg\:pb-24{padding-bottom:6rem}.lg\:pl-6{padding-left:1.5rem}.lg\:pt-20{padding-top:5rem}}

diff --git a/index.html b/index.html
@@ -289,7 +289,7 @@
     .st-panel[hidden] { display: none; }
     .st-panel.is-active { animation: panelIn .45s cubic-bezier(.2,.7,.2,1) both; }
     @keyframes panelIn { from { opacity: 0; transform: translateY(10px); } to { opacity: 1; transform: none; } }
-    .st-visual { background: #F1F3F7; min-height: 300px; display: flex; align-items: center; justify-content: center; padding: 28px 22px; position: relative; }
+    .st-visual { background: #E6EBF5; min-height: 300px; display: flex; align-items: center; justify-content: center; padding: 28px 22px; position: relative; }
     .st-visual .vb { position: absolute; top: 14px; right: 14px; font-size: 10px; font-weight: 700; letter-spacing: .12em; text-transform: uppercase; color: rgba(15,42,74,.45); }
     .st-panel .case-checks li { font-size: 14.5px; }
     /* animaties starten pas als het paneel actief is */
@@ -937,7 +937,7 @@
             mee groeit, én bouwen wij precies dat.</p>
         </div>
         <!-- FOTO: Jilles en Rob in het park (IMG_0060). Eventueel later vervangen door een strategiesessie-foto (met een klant aan tafel, whiteboard of laptop met cijfers). -->
-        <img src="Jilles_en_Rob_strategie.jpg" alt="Jilles en Rob, oprichters van Pareto Partners" width="1400" height="1050" decoding="async" class="w-full rounded-[24px] object-cover aspect-[4/3]" data-reveal data-reveal-delay="100" />
+        <img src="Jilles_en_Rob_strategie.jpg" alt="Jilles en Rob, oprichters van Pareto Partners" width="1200" height="1200" decoding="async" class="w-full max-w-[420px] lg:justify-self-end rounded-[24px] object-cover aspect-[4/3] lg:aspect-square" data-reveal data-reveal-delay="100" />
       </div>
 
       <div class="grid lg:grid-cols-[330px_1fr] gap-6 lg:gap-8 items-start" data-reveal>
@@ -1726,7 +1726,6 @@
         </div>
       </div>
       <div class="relative flex flex-col gap-4">
-        <img src="Jilles_en_Rob_cta.jpg" alt="Jilles en Rob van Pareto Partners" width="1400" height="788" loading="lazy" decoding="async" class="w-full rounded-3xl object-cover aspect-[16/9]" />
       <div class="relative rounded-3xl bg-white text-[#0f2a4a] p-6 sm:p-7 shadow-[0_30px_60px_-30px_rgba(0,0,0,.6)]">
           <p class="text-[12px] font-bold uppercase tracking-[0.14em] text-[#1e5bff] mb-4">Na het eerste gesprek weet je</p>
           <ul class="case-checks !mb-5 !gap-3">
